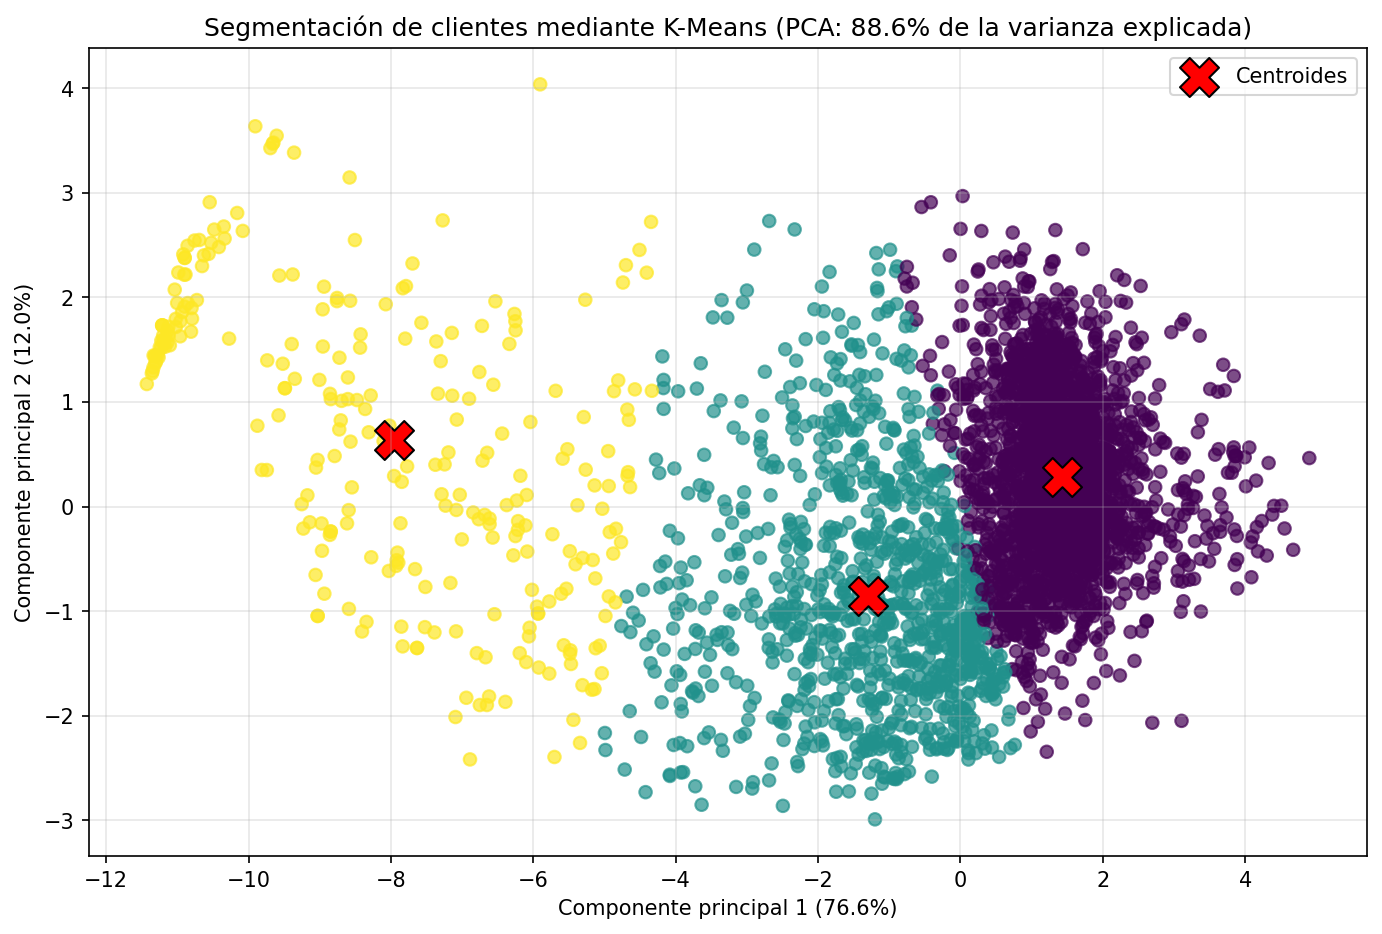
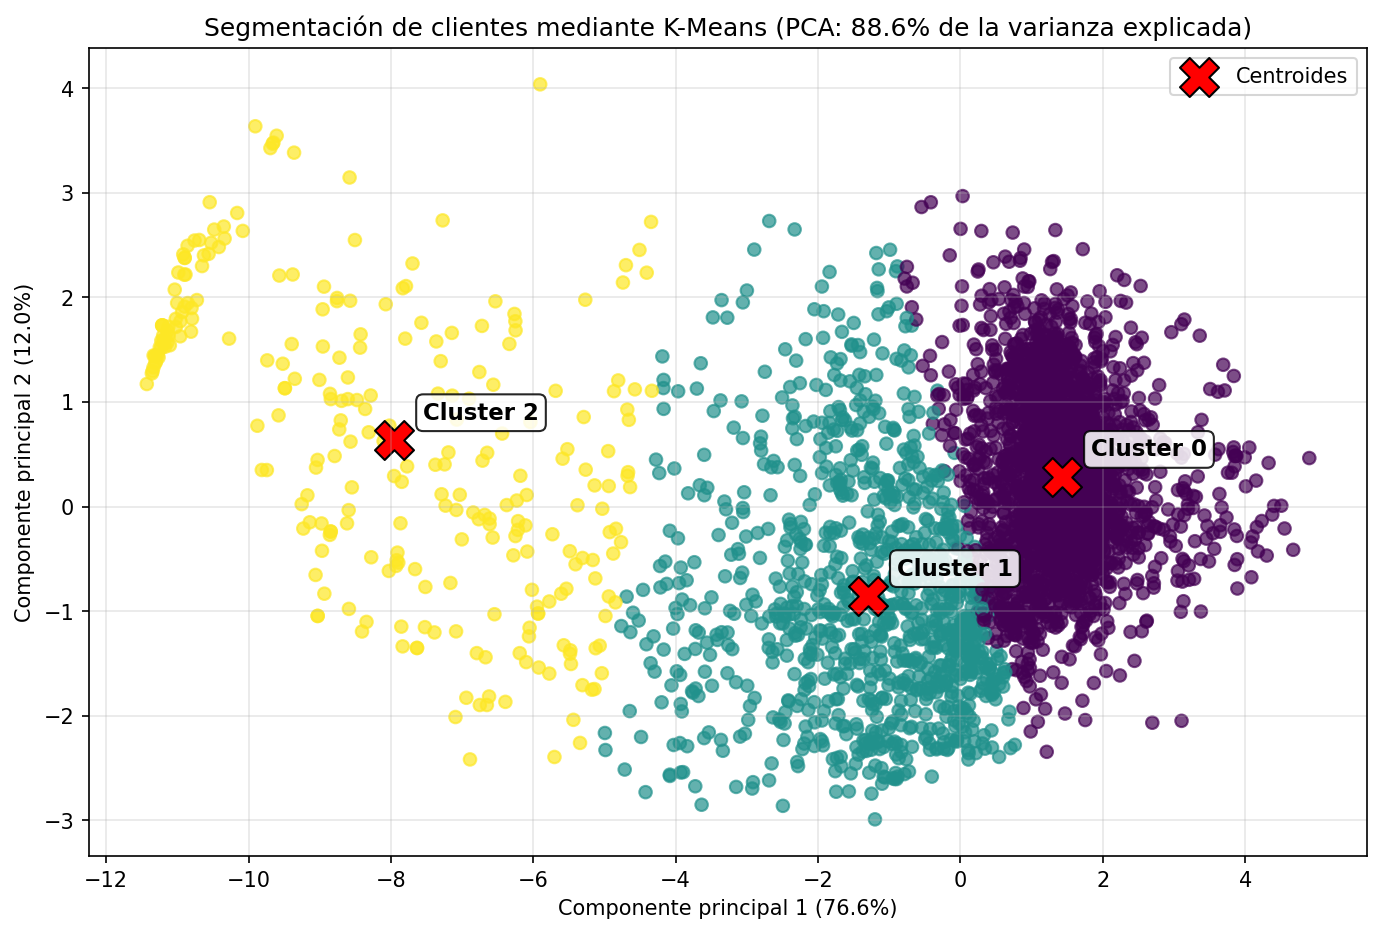
Add stability metrics visualizations and update documentation

Changed region(s): [[0.7779, 0.4347, 0.9023, 0.5278], [0.6223, 0.5899, 0.7467, 0.652], [0.28, 0.4036, 0.4045, 0.4657]]

diff --git a/main.py b/main.py
@@ -467,6 +467,18 @@ def graficar_pca(X_final, df, kmeans, ruta):
         label="Centroides"
     )
 
+    # Etiqueta junto a cada centroide; el índice coincide con el número de clúster
+    for cluster, (x, y) in enumerate(centroides_pca):
+        plt.annotate(
+            f"Cluster {cluster}",
+            xy=(x, y),
+            xytext=(14, 10),
+            textcoords="offset points",
+            fontsize=11,
+            fontweight="bold",
+            bbox=dict(boxstyle="round,pad=0.3", facecolor="white", edgecolor="black", alpha=0.85)
+        )
+
     plt.title(f"Segmentación de clientes mediante K-Means "
               f"(PCA: {varianza.sum():.1%} de la varianza explicada)")
     plt.xlabel(f"Componente principal 1 ({varianza[0]:.1%})")
@@ -561,6 +573,68 @@ def validar_estabilidad(X_final, k_final, k_comparar=(2, 3, 4)):
     return detalle.round(4), resumen, jaccard
 
 
+COLORES_PRUEBA = {"semilla": "#2a78d6", "submuestra": "#eb6834"}
+NOMBRES_PRUEBA = {"semilla": "Otras semillas (10, todos los clientes)",
+                  "submuestra": "Submuestras del 80 % (20)"}
+
+
+def graficar_puntos_estabilidad(ax, grupos, etiquetas):
+    # grupos: lista (una entrada por posición en x) de dicts {prueba: valores}
+    desplazamiento = {"semilla": -0.18, "submuestra": 0.18}
+    rng = np.random.default_rng(RANDOM_STATE)
+    for prueba, color in COLORES_PRUEBA.items():
+        for pos, grupo in enumerate(grupos):
+            valores = np.asarray(grupo[prueba])
+            x = pos + desplazamiento[prueba] + rng.uniform(-0.06, 0.06, len(valores))
+            ax.scatter(x, valores, s=36, color=color, alpha=0.55, edgecolors="white", linewidths=0.8,
+                       label=NOMBRES_PRUEBA[prueba] if pos == 0 else None, zorder=3)
+            media = valores.mean()
+            ax.hlines(media, pos + desplazamiento[prueba] - 0.13, pos + desplazamiento[prueba] + 0.13,
+                      color="#0b0b0b", linewidth=2, zorder=4)
+            ax.annotate(f"{media:.3f}", xy=(pos + desplazamiento[prueba] + 0.13, media),
+                        xytext=(3, 0), textcoords="offset points", ha="left", va="center",
+                        fontsize=9, fontweight="bold", color="#0b0b0b")
+    ax.set_xticks(range(len(etiquetas)))
+    ax.set_xticklabels(etiquetas)
+    ax.grid(True, axis="y", alpha=0.3)
+    ax.spines[["top", "right"]].set_visible(False)
+
+
+def graficar_estabilidad(detalle, k_final, ruta_ari, ruta_jaccard):
+    # ARI por k: cada punto es una repetición, la línea negra es la media
+    valores_k = sorted(detalle["k"].unique())
+    grupos = [{p: detalle[(detalle["k"] == k) & (detalle["prueba"] == p)]["ari"] for p in COLORES_PRUEBA}
+              for k in valores_k]
+    etiquetas = [f"k = {k}" + (" (final)" if k == k_final else "") for k in valores_k]
+
+    fig, ax = plt.subplots(figsize=(10, 6))
+    graficar_puntos_estabilidad(ax, grupos, etiquetas)
+    ax.set_ylim(min(0.9, detalle["ari"].min() - 0.01), 1.005)
+    ax.set_title("Estabilidad de K-Means: ARI respecto al modelo de referencia (random_state=42)")
+    ax.set_xlabel("Número de clústeres")
+    ax.set_ylabel("Índice Rand Ajustado (ARI)\n(eje recortado: el ARI vale 1 como máximo y puede ser negativo)")
+    ax.legend(title="Línea negra y valor: media", loc="lower left", frameon=False)
+    fig.savefig(ruta_ari, dpi=150, bbox_inches="tight")
+    plt.close(fig)
+
+    # Jaccard por clúster para el k final
+    final = detalle[detalle["k"] == k_final]
+    clusters = range(k_final)
+    grupos = [{p: final[final["prueba"] == p][f"jaccard_cluster_{c}"] for p in COLORES_PRUEBA}
+              for c in clusters]
+
+    fig, ax = plt.subplots(figsize=(10, 6))
+    graficar_puntos_estabilidad(ax, grupos, [f"Cluster {c}" for c in clusters])
+    minimo = min(final[f"jaccard_cluster_{c}"].min() for c in clusters)
+    ax.set_ylim(min(0.9, minimo - 0.01), 1.005)
+    ax.set_title(f"Estabilidad por clúster (k = {k_final}): índice de Jaccard máximo frente a cada repetición")
+    ax.set_xlabel("Clúster del modelo de referencia")
+    ax.set_ylabel("Índice de Jaccard\n(eje recortado: la escala completa va de 0 a 1)")
+    ax.legend(title="Línea negra y valor: media", loc="lower left", frameon=False)
+    fig.savefig(ruta_jaccard, dpi=150, bbox_inches="tight")
+    plt.close(fig)
+
+
 # =============================================================================
 # EXPORTAR MUESTRA DE X_final COMO IMAGEN
 # =============================================================================
@@ -635,6 +709,8 @@ def main():
 
     silueta_clusters = silueta_por_cluster(X_final, kmeans.labels_)
     estabilidad_detalle, estabilidad_resumen, estabilidad_jaccard = validar_estabilidad(X_final, k_final)
+    graficar_estabilidad(estabilidad_detalle, k_final,
+                         salida / "05_estabilidad_ari.png", salida / "06_estabilidad_jaccard.png")
 
     silueta_clusters.to_csv(salida / "silueta_por_cluster.csv")
     estabilidad_detalle.to_csv(salida / "estabilidad_detalle.csv", index=False)

diff --git a/CLAUDE.md b/CLAUDE.md
@@ -24,7 +24,7 @@ Differences between the script and the notebook (the script's choices are the de
 - Install: `pip install -r requirements.txt` (minimum versions only, nothing pinned). A local `venv/` (git-ignored) has everything installed: `venv/Scripts/python.exe main.py`.
 - Credentials: `DB_USER` and `DB_PASSWORD` are required, read from the environment or a git-ignored `.env` (template in [.env.example](.env.example)). `DB_HOST`, `DB_PORT` and `DB_NAME` default to `localhost`, `3306` and `renacertfg`. Needs a **local MySQL** database; nothing runs without it.
 - Run: `python main.py --salida src/ejecucion_N`. Optional `--k N` fixes the final number of clusters instead of the best silhouette; elbow and silhouette are still computed and reported for every k. A full run takes about 6 minutes, mostly the SQL query. On Windows set `PYTHONIOENCODING=utf-8` when redirecting output.
-- Outputs in the `--salida` folder: `01_codo.png`, `02_silhouette.png`, `03_pca_clusters.png`, `04_xfinal_muestra.png`, `metricas_k.csv`, `resumen_clusters.csv`, `detalle_clusters.csv`, `silueta_por_cluster.csv`, `estabilidad_*.csv` (ARI across 10 seeds and 20 subsamples of 80% for k=2, 3, 4 and the final k, plus per-cluster Jaccard), and `clientes_cluster.csv` (`cliente_id` → cluster, useful to compare runs with `adjusted_rand_score`).
+- Outputs in the `--salida` folder: `01_codo.png`, `02_silhouette.png`, `03_pca_clusters.png`, `04_xfinal_muestra.png`, `05_estabilidad_ari.png`, `06_estabilidad_jaccard.png`, `metricas_k.csv`, `resumen_clusters.csv`, `detalle_clusters.csv`, `silueta_por_cluster.csv`, `estabilidad_*.csv` (ARI across 10 seeds and 20 subsamples of 80% for k=2, 3, 4 and the final k, plus per-cluster Jaccard), and `clientes_cluster.csv` (`cliente_id` → cluster, useful to compare runs with `adjusted_rand_score`).
 - `src/ejecucion_*` folders hold results of past runs for comparison. `src/ejecucion_1` was produced with the notebook methodology and only contains figures.
 
 ## Pipeline
